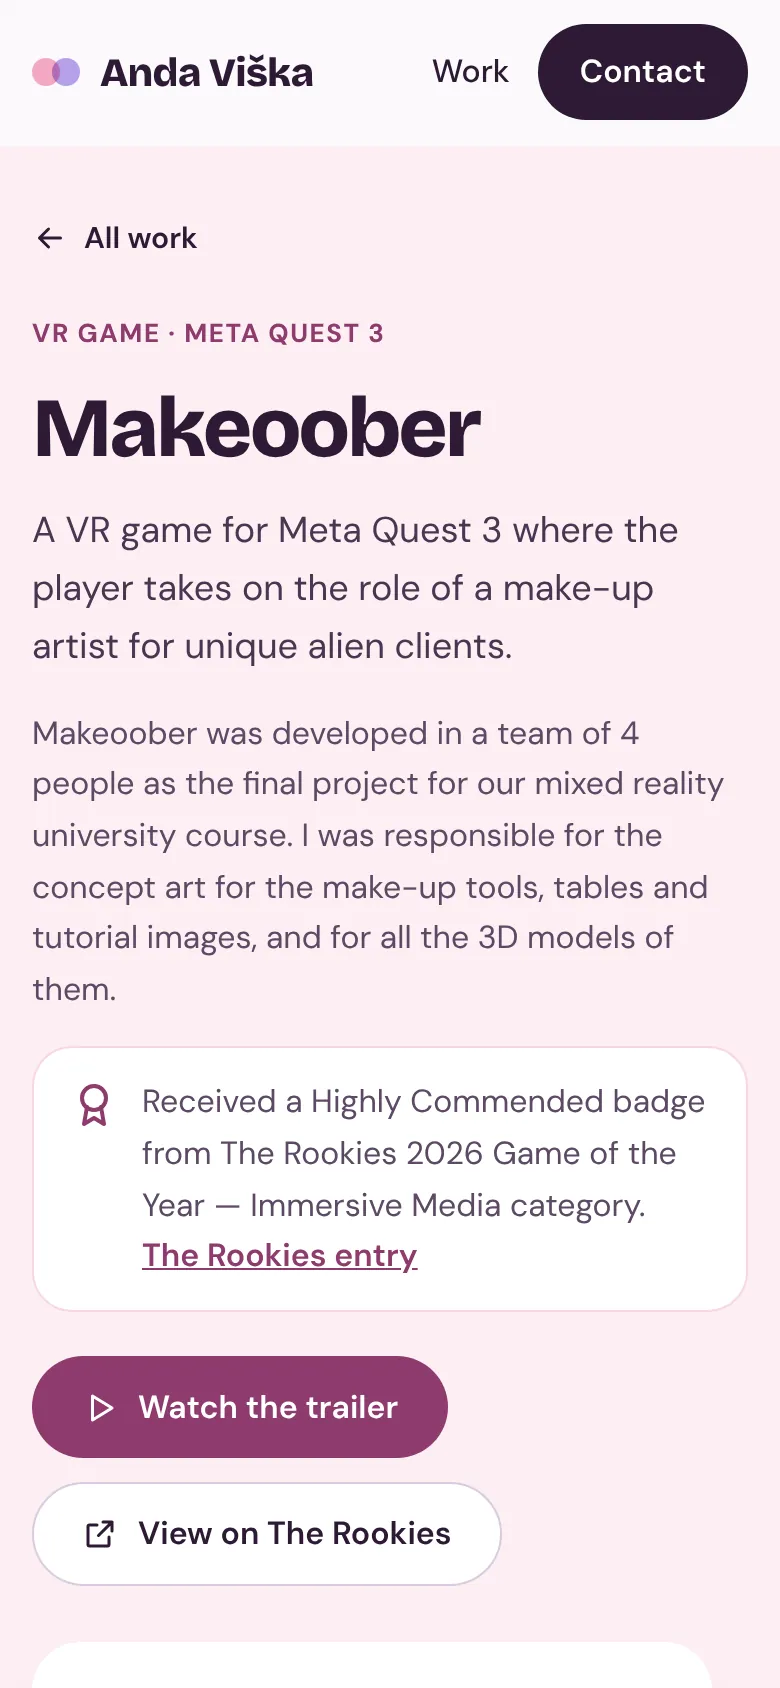
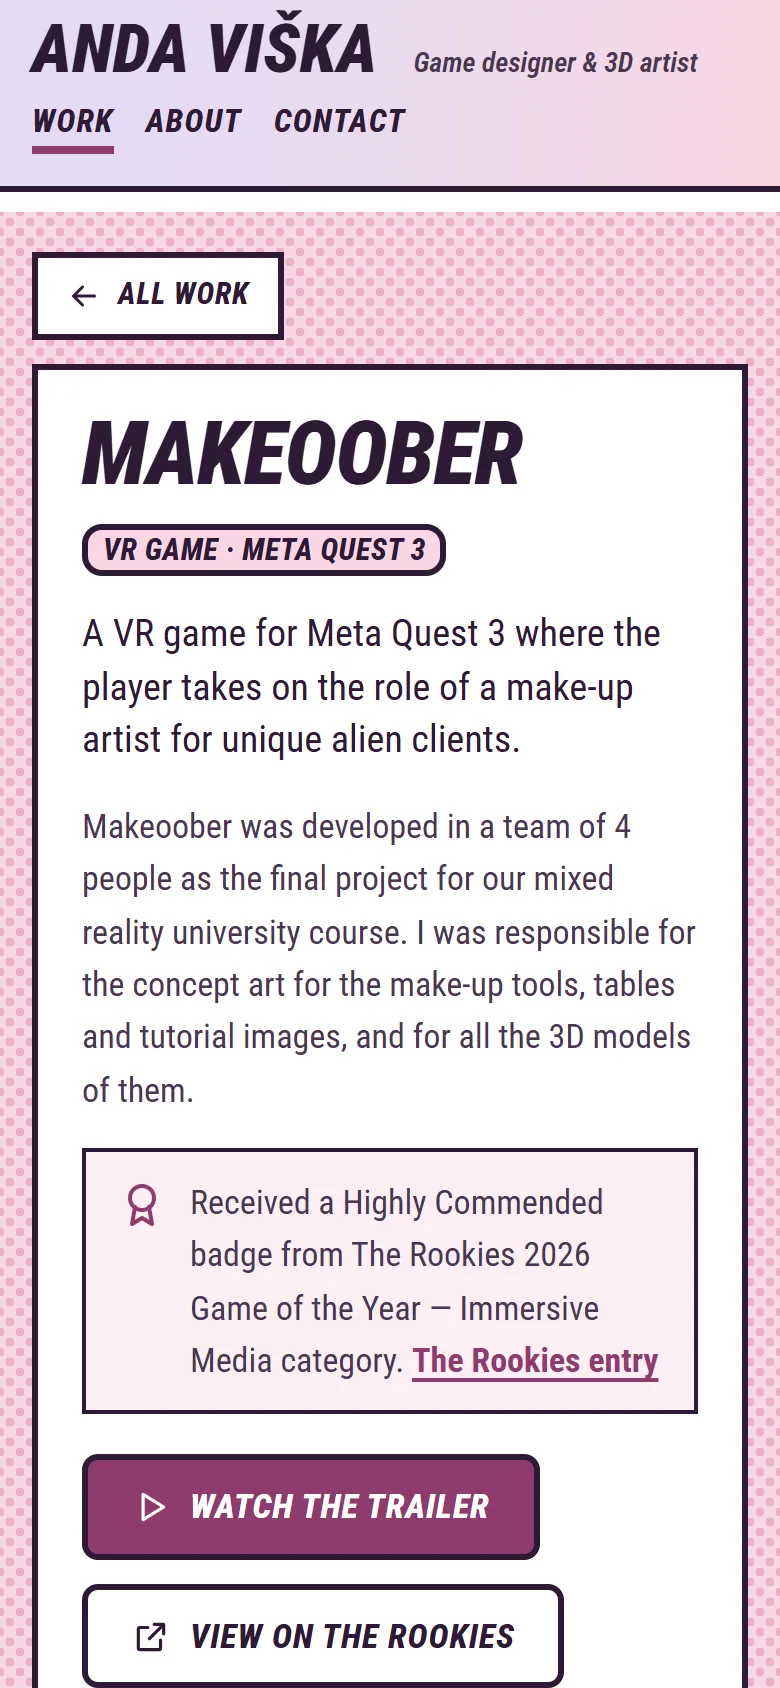
Anda case study: screenshots and text for her comic-style v2
- New "after" screenshots from anda.protu.lv (home, 3D modelling, Makeoober,
  Spider Meadow); third compare tab is now the 3D modelling page.
- Text describes the comic-book version; Lighthouse remeasured on the live
  site 22 Oct 2026 (1.25 MB, 24 requests, perf 70-72, a11y/SEO 100).
- Process timeline sizes to its number of steps (Anda now has five).

diff --git a/src/data/anda.ts b/src/data/anda.ts
@@ -7,7 +7,7 @@ export type ComparePage = { id: string; label: Localized }
 export const comparePages: ComparePage[] = [
   { id: 'home', label: { lv: 'Sākumlapa', en: 'Home' } },
   { id: 'project', label: { lv: 'Projekts', en: 'Project' } },
-  { id: 'more', label: { lv: 'Visi darbi', en: 'All work' } },
+  { id: 'more', label: { lv: '3D modelēšana', en: '3D modelling' } },
 ]
 
 export const shot = (site: 'old' | 'new', page: string, device: string) =>
@@ -25,22 +25,23 @@ export const anda = {
     lv:
       'Pārnesu spēļu mākslinieces portfolio no Canva uz viņas pašas domēnu. ' +
       'Klientes vēlme: „lai izskatās profesionālāk, bet ar pasteļkrāsām”. ' +
-      'Personība palika tā pati, struktūra kļuva skaidrāka, un vietne ' +
-      'tagad ir 45 reizes vieglāka.',
+      'Personība palika tā pati, struktūra kļuva skaidrāka, un sākumlapa ' +
+      'tagad ir 16 reizes vieglāka. Pašlaik vietne ir otrajā versijā, komiksa stilā.',
     en:
       'I moved a game artist’s portfolio from Canva to her own domain. ' +
       'The brief: “make it look more professional, but keep the pastel ' +
       'colours”. The personality stayed, the structure got clearer, and ' +
-      'the site is now 45 times lighter.',
+      'the home page is now 16 times lighter. The site is on its second version, in a comic-book style.',
   },
   status: {
     lv:
       'Publicēts: anda.protu.lv. Vispirms Canva vietni pārnesu uz savu serveri ' +
       'kā precīzu kopiju, tad uztaisīju maketu. Anda apstiprināja virzienu ' +
-      'pēc pirmā skata.',
+      'pēc pirmā skata. Otrā versija pārvērta sākumlapu par komiksa lapu.',
     en:
       'Live at anda.protu.lv. First I moved the Canva site to my server as an ' +
-      'exact copy, then made a mockup. Anda approved the direction on first look.',
+      'exact copy, then made a mockup. Anda approved the direction on first look. ' +
+      'The second version turned the home page into a comic page.',
   },
   compareHint: {
     lv: 'Velc robežu: pa kreisi vecā Canva vietne, pa labi jaunā.',
@@ -64,49 +65,50 @@ export const changes: { title: Localized; body: Localized }[] = [
     body: {
       lv:
         'Puse projektu bija otrā lapā aiz vienas pogas apakšā. Tagad visi ' +
-        'seši ir kartītēs sākumlapā, un katram ir sava lapa ar lomu, komandu, ' +
-        'rīkiem un galeriju, kur attēlu var atvērt pilnā izmērā.',
+        'seši ir paneļos sākumlapā, un katram ir sava lapa ar lomu, komandu un ' +
+        'rīkiem. Zīmējumi un studijas ir galerijā, kur attēlu var atvērt lielāku.',
       en:
         'Half the projects sat on a second page behind one button at the ' +
-        'bottom. Now all six are cards on the home page, and each has its own ' +
-        'page with role, team, tools and a gallery that opens images full size.',
+        'bottom. Now all six are panels on the home page, and each has its own ' +
+        'page with role, team and tools. Drawings and studies sit in a gallery ' +
+        'where any image opens larger.',
     },
   },
   {
-    title: { lv: 'Pasteļi kā sistēma', en: 'Pastels as a system' },
+    title: { lv: 'Komiksa lapa', en: 'A comic page' },
     body: {
       lv:
-        'Gradienta fona vietā ir mierīga gaiša pamatne, un katram projektam ir ' +
-        'savs pasteļtonis. Viļņoto laukumu vietā dekorācijai izmantoti Andas ' +
-        'pašas tēli.',
+        'Sākumlapa ir viena komiksa lapa: biezas kontūras, rastra punkti un ' +
+        'katram projektam savs panelis savā pasteļtonī. Makeoober ir lielākais ' +
+        'panelis centrā, un kontaktos ir Andas pašas zīmēts tēls.',
       en:
-        'The gradient behind everything became a calm light base, with one ' +
-        'pastel tint per project. Her own characters replaced the wavy blobs as ' +
-        'decoration.',
+        'The home page is one comic page: heavy outlines, halftone dots and a ' +
+        'panel per project, each in its own pastel tint. Makeoober is the big ' +
+        'centre panel, and the contact section has a character Anda drew herself.',
     },
   },
   {
     title: { lv: 'Teksts, ko var izlasīt', en: 'Text you can read' },
     body: {
       lv:
-        'Sīko slīprakstu un kontūrburtu virsrakstu vietā ir divi fonti normālā ' +
-        'izmērā ar latviešu burtiem, mitināti uz sava servera. Lighthouse ' +
-        'pieejamība 93 → 100.',
+        'Sīko slīprakstu un kontūrburtu virsrakstu vietā ir viens fonts, Roboto ' +
+        'Condensed, taisnajā un slīprakstā, ar latviešu burtiem un mitināts uz ' +
+        'sava servera. Lighthouse pieejamība 93 → 100.',
       en:
-        'Small italics and outlined headings replaced by two fonts at a normal ' +
-        'size, with Latvian letters, self-hosted. Lighthouse accessibility ' +
-        '93 → 100.',
+        'Small italics and outlined headings replaced by one family, Roboto ' +
+        'Condensed, upright and italic, with Latvian letters and self-hosted. ' +
+        'Lighthouse accessibility 93 → 100.',
     },
   },
   {
     title: { lv: 'Viegla un sava', en: 'Light, and her own' },
     body: {
       lv:
-        'Attēlus pārveidoju WebP formātā, un visa vietne no ~128 MB kļuva par 4,6 MB. ' +
+        'Attēli ir WebP formātā, un sākumlapa no 20,6 MB kļuva par 1,25 MB. ' +
         'Bez Canva skriptiem, uz mana VPS ar HTTPS; vecās Canva saites ' +
         'pāradresētas uz jaunajām lapām.',
       en:
-        'I converted the images to WebP, and the whole site went from ~128 MB to 4.6 MB. ' +
+        'The images are WebP, and the home page went from 20.6 MB to 1.25 MB. ' +
         'No Canva scripts, running on my VPS with HTTPS; old Canva links ' +
         'redirect to the new pages.',
     },
@@ -133,29 +135,27 @@ export const links = [
   },
 ]
 
-/** Lighthouse, mobilais profils, sākumlapa, 19.10.2026 (2 mērījumi, vienādi). */
+/** Lighthouse 12.2, mobilais profils, sākumlapa, 22.10.2026 (2 mērījumi; veiktspēja 70 un 72). */
 export const metrics = {
   title: { lv: 'Sākumlapa, mērīts', en: 'Home page, measured' },
   metric: { lv: 'Rādītājs', en: 'Metric' },
   old: 'Canva',
   rebuild: { lv: 'Jaunā', en: 'Rebuild' },
   rows: [
-    { label: { lv: 'Lapas svars', en: 'Page weight' }, old: '20,6 MB', new: '0,45 MB' },
-    { label: { lv: 'Pieprasījumi', en: 'Requests' }, old: '160', new: '13' },
-    { label: { lv: 'Lielākais saturs redzams', en: 'Largest paint (LCP)' }, old: '23,5 s', new: '2,6 s' },
-    { label: { lv: 'Veiktspēja', en: 'Performance' }, old: '55', new: '97' },
+    { label: { lv: 'Lapas svars', en: 'Page weight' }, old: '20,6 MB', new: '1,25 MB' },
+    { label: { lv: 'Pieprasījumi', en: 'Requests' }, old: '160', new: '24' },
+    { label: { lv: 'Lielākais saturs redzams', en: 'Largest paint (LCP)' }, old: '23,5 s', new: '6,7 s' },
+    { label: { lv: 'Veiktspēja', en: 'Performance' }, old: '55', new: '70–72' },
     { label: { lv: 'Pieejamība', en: 'Accessibility' }, old: '93', new: '100' },
     { label: { lv: 'SEO', en: 'SEO' }, old: '45', new: '100' },
   ],
   note: {
     lv:
-      'Lighthouse, mobilais profils, 19.10.2026, divi mērījumi ar vienādu ' +
-      'rezultātu. Jaunā versija mērīta bez servera saspiešanas, tāpēc ' +
-      'dzīvajā vietnē tā ir vēl vieglāka.',
+      'Lighthouse, mobilais profils. Jaunā versija mērīta dzīvajā vietnē ' +
+      '22.10.2026, divreiz; veiktspēja bija 70 un 72.',
     en:
-      'Lighthouse, mobile profile, 19 Oct 2026, two runs with the same result. ' +
-      'The rebuild was measured without server compression, so the live site ' +
-      'is lighter still.',
+      'Lighthouse, mobile profile. The new version was measured on the live ' +
+      'site on 22 Oct 2026, twice; performance came out at 70 and 72.',
   },
 }
 
@@ -165,13 +165,11 @@ export const pages = {
     lv:
       'Darba devējs, kas atver Spider Meadow, uzreiz redz, ko tieši Anda ' +
       'darīja: visu spēles mākslu, flīzes un zirnekļa animāciju, komandā ar ' +
-      'programmētāju. Zemāk ir tēli, kukaiņi un pasaules priekšmeti, sakārtoti kā ' +
-      'kārtīga asset lapa.',
+      'programmētāju. Zemāk ir spēles attēli.',
     en:
       'An employer who opens Spider Meadow sees straight away what exactly ' +
       'Anda did: all the game art, tiles and the spider’s animation, in a team ' +
-      'with a programmer. Below are the characters, bugs and world items, laid out ' +
-      'as a proper asset sheet.',
+      'with a programmer. The game images follow below.',
   },
   caption: {
     lv: 'Spider Meadow projekta lapa jaunajā vietnē.',
@@ -199,6 +197,10 @@ export const steps: { label: Localized; note: Localized; upcoming?: boolean }[] 
   {
     label: { lv: 'Publicēts', en: 'Live' },
     note: { lv: 'anda.protu.lv ar HTTPS', en: 'anda.protu.lv with HTTPS' },
+  },
+  {
+    label: { lv: 'Otrā versija', en: 'Second version' },
+    note: { lv: 'Komiksa stils', en: 'Comic-book style' },
   },
 ]
 

diff --git a/src/silva-case.css b/src/silva-case.css
@@ -362,7 +362,8 @@
 
 .silva-steps ol {
   display: grid;
-  grid-template-columns: repeat(4, minmax(0, 1fr));
+  grid-auto-flow: column;
+  grid-auto-columns: minmax(0, 1fr);
   margin: 0.875rem 0 0;
   padding: 0;
   list-style: none;
@@ -424,7 +425,7 @@
 }
 
 @media (max-width: 40rem) {
-  .silva-steps ol { grid-template-columns: 1fr 1fr; row-gap: 1.75rem; }
+  .silva-steps ol { grid-auto-flow: row; grid-template-columns: 1fr 1fr; row-gap: 1.75rem; }
 }
 
 /* Citas gadījuma izpētes tajā pašā izkārtojumā (VIZIUM) */
